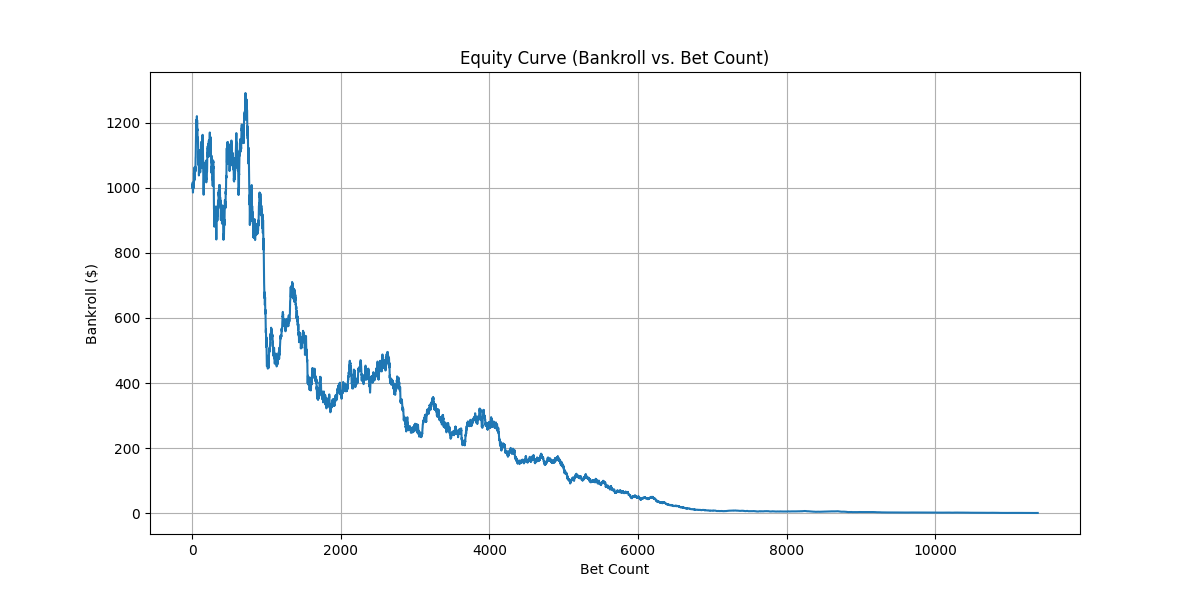
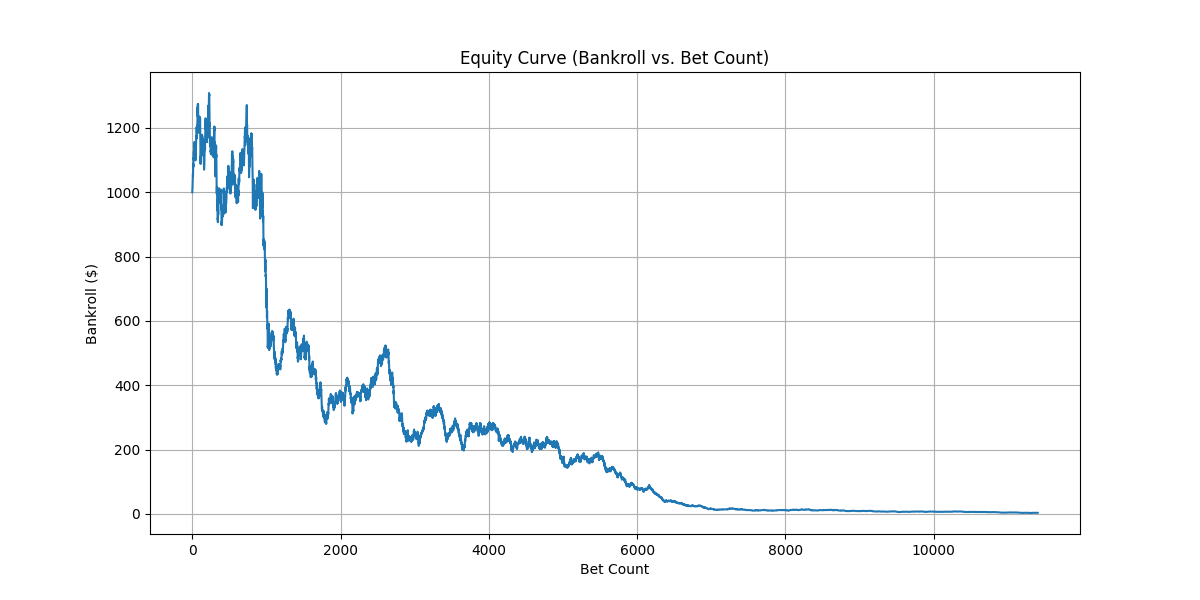
feat: Add Streak_Advantage to GBM model (13 features)
- Single-pass O(n) streak calculation with polarity flip rule
- Signed integers: +N for win streaks, -N for loss streaks
- Capped at ±10 to prevent outlier distortion
- Follows same temporal ordering as Elo system

Results vs baseline:
- ROI: 2.11% (unchanged)
- Sharpe: 3.10 (unchanged)
- MaxDD: 34.27% (unchanged)

Note: GBM assigned 0.0000 importance to Streak_Advantage - existing
features (H2H_Dominance_Score, Win_Rate_L5_Advantage) already capture
the momentum signal. Feature preserved for future analysis.

diff --git a/V8.0/backtest_final_v7.4.py b/V8.0/backtest_final_v7.4.py
@@ -149,6 +149,9 @@ try:
     STARTING_ELO = 1500
     ELO_CONFIDENCE_CAP = 50
 
+    # NEW: Streak tracking (O(n) single-pass)
+    player_streaks = {}  # player_id (str) -> current_signed_streak (int)
+
     for index, match in tqdm(backtest_df.iterrows(), total=backtest_df.shape[0]):
         
         current_date = match['Date'].date()
@@ -170,6 +173,11 @@ try:
         p1_elo_confidence = min(p1_matches, ELO_CONFIDENCE_CAP) / ELO_CONFIDENCE_CAP
         p2_elo_confidence = min(p2_matches, ELO_CONFIDENCE_CAP) / ELO_CONFIDENCE_CAP
         elo_sum = p1_pre_match_elo + p2_pre_match_elo
+
+        # NEW: Retrieve PRE-MATCH streak (before outcome known)
+        p1_streak = player_streaks.get(str(p1_id), 0)
+        p2_streak = player_streaks.get(str(p2_id), 0)
+        streak_advantage = max(-10, min(10, p1_streak - p2_streak))  # Cap at ±10
 
         # --- On-the-fly Feature Engineering for GBM model ---
         # Get full history first, then the rolling window
@@ -266,13 +274,15 @@ try:
 
         # --- Model Prediction ---
         gbm_features = pd.DataFrame([{
-            # Elo features (6 new features)
+            # Elo features (6 features)
             'Elo_Advantage': elo_advantage,
             'P1_Elo': p1_pre_match_elo,
             'P2_Elo': p2_pre_match_elo,
             'Elo_Sum': elo_sum,
             'P1_Elo_Confidence': p1_elo_confidence,
             'P2_Elo_Confidence': p2_elo_confidence,
+            # NEW: Streak feature
+            'Streak_Advantage': streak_advantage,
             # Existing features
             'Time_Since_Last_Advantage': time_since_last_advantage,
             'Matches_Last_24H_Advantage': matches_last_24h_advantage,
@@ -360,6 +370,15 @@ try:
         elo_ratings[p2_id] = new_p2_elo
         match_counts[p1_id] = p1_matches + 1
         match_counts[p2_id] = p2_matches + 1
+
+        # NEW: Update player streaks based on actual outcome (AFTER prediction)
+        # Polarity flip rule: win on -3 → +1, loss on +5 → -1
+        if actual_winner == 1:  # P1 won
+            player_streaks[str(p1_id)] = (p1_streak + 1) if p1_streak >= 0 else 1
+            player_streaks[str(p2_id)] = (p2_streak - 1) if p2_streak <= 0 else -1
+        else:  # P2 won
+            player_streaks[str(p1_id)] = (p1_streak - 1) if p1_streak <= 0 else -1
+            player_streaks[str(p2_id)] = (p2_streak + 1) if p2_streak >= 0 else 1
 
     # --- 4. Final Results Summary & Save Log ---
     print("\n--- Final Back-test Summary (Wide Filters, Symmetrical, Normalized Stake) ---")

diff --git a/V8.0/advanced_feature_engineering_v7.4.py b/V8.0/advanced_feature_engineering_v7.4.py
@@ -182,6 +182,9 @@ try:
 
     player_pdr_history = {} ## NEW ## - To track recent PDRs for slope calculation
 
+    # --- NEW: Initialize Streak Tracker (O(n) single-pass) ---
+    streak_tracker = {}  # player_id (str) -> current_signed_streak (int)
+
     # --- OPTIMIZATION: Pre-build player index for O(1) lookups ---
     print("--- Building player match indices ---")
     player_match_indices = {}
@@ -222,6 +225,12 @@ try:
         # - Calculate confidence (0.0 to 1.0) - how reliable is this Elo rating?
         p1_elo_confidence = min(p1_matches, ELO_CONFIDENCE_CAP) / ELO_CONFIDENCE_CAP
         p2_elo_confidence = min(p2_matches, ELO_CONFIDENCE_CAP) / ELO_CONFIDENCE_CAP
+
+        # --- NEW: Retrieve PRE-MATCH streak state (O(n) single-pass) ---
+        # Streak = signed integer: positive for wins, negative for losses
+        p1_current_streak = streak_tracker.get(str(p1_id), 0)
+        p2_current_streak = streak_tracker.get(str(p2_id), 0)
+        streak_advantage = max(-10, min(10, p1_current_streak - p2_current_streak))  # Cap at ±10
 
         # - Elo sum as proxy for match quality (high vs low Elo matches behave differently)
         elo_sum = p1_pre_match_elo + p2_pre_match_elo
@@ -394,6 +403,15 @@ try:
         match_counts[p1_id] = p1_matches + 1
         match_counts[p2_id] = p2_matches + 1
 
+        # --- NEW: Update streak state AFTER recording pre-match values ---
+        # Polarity flip rule: win on -3 → +1, loss on +5 → -1
+        if p1_won:
+            streak_tracker[str(p1_id)] = (p1_current_streak + 1) if p1_current_streak >= 0 else 1
+            streak_tracker[str(p2_id)] = (p2_current_streak - 1) if p2_current_streak <= 0 else -1
+        else:
+            streak_tracker[str(p1_id)] = (p1_current_streak - 1) if p1_current_streak <= 0 else -1
+            streak_tracker[str(p2_id)] = (p2_current_streak + 1) if p2_current_streak >= 0 else 1
+
         # Append the new, correct row
         new_row = match.to_dict()
         new_row.update({
@@ -404,6 +422,10 @@ try:
             'Elo_Sum': elo_sum,
             'P1_Elo_Confidence': p1_elo_confidence,
             'P2_Elo_Confidence': p2_elo_confidence,
+            # Streak features (NEW)
+            'P1_Current_Streak': p1_current_streak,
+            'P2_Current_Streak': p2_current_streak,
+            'Streak_Advantage': streak_advantage,
             # Existing features
             'PDR_Slope_Advantage': pdr_slope_advantage,
             'Daily_Fatigue_Advantage': daily_fatigue_advantage,

diff --git a/V8.0/cpr_v7.4_specialist_gbm_trainer.py b/V8.0/cpr_v7.4_specialist_gbm_trainer.py
@@ -27,15 +27,17 @@ try:
     # Define feature types
     # CORRECTED: Removed categorical_features list entirely.
 #    numerical_features = ['Win_Rate_Advantage', 'Pressure_Points_Advantage', 'Rest_Advantage']
-    # 6 Elo features (new) + 6 optimal features from forensic analysis = 12 total features
+    # 6 Elo features + 1 Streak feature + 6 optimal features = 13 total features
     numerical_features = [
-        # NEW: Elo features (6 features for skill differential and confidence)
+        # Elo features (6 features for skill differential and confidence)
         'Elo_Advantage',           # Core skill differential
         'P1_Elo',                  # Raw P1 skill (drift detection)
         'P2_Elo',                  # Raw P2 skill (drift detection)
         'Elo_Sum',                 # Match quality proxy
         'P1_Elo_Confidence',       # P1 rating reliability (0.0-1.0)
         'P2_Elo_Confidence',       # P2 rating reliability (0.0-1.0)
+        # NEW: Streak feature (momentum/psychological state)
+        'Streak_Advantage',        # Signed streak differential (capped ±10)
         # 6 optimal features (removed 6 bad features per forensic analysis)
         'H2H_P1_Win_Rate', 'H2H_Dominance_Score', 'PDR_Advantage',
         'Win_Rate_L5_Advantage', 'Close_Set_Win_Rate_Advantage', 'Set_Comebacks_Advantage'
